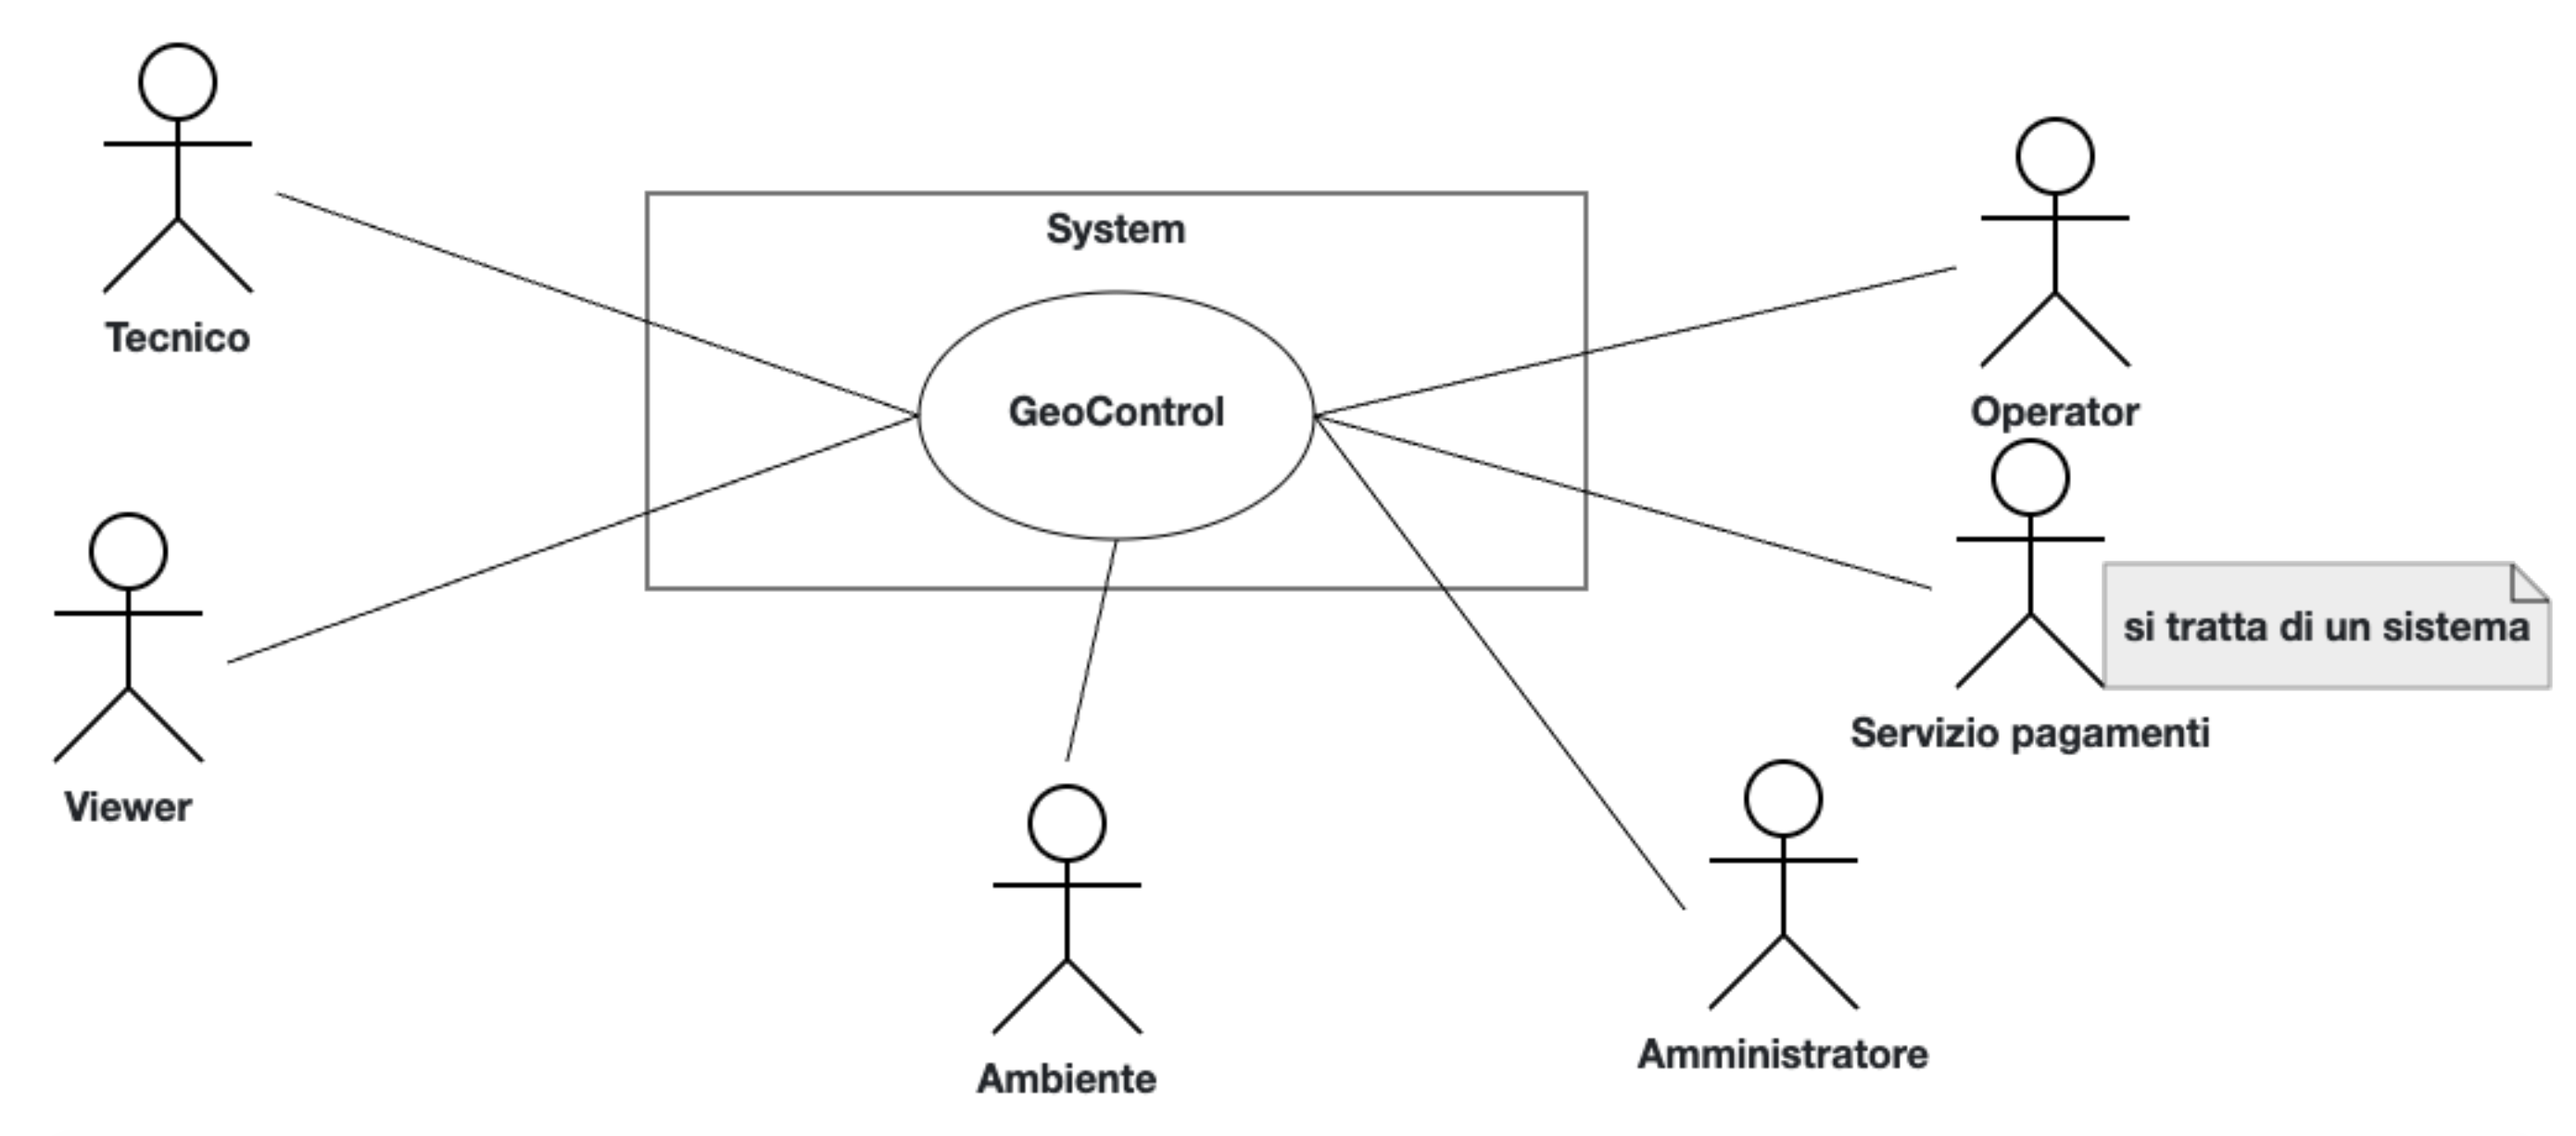
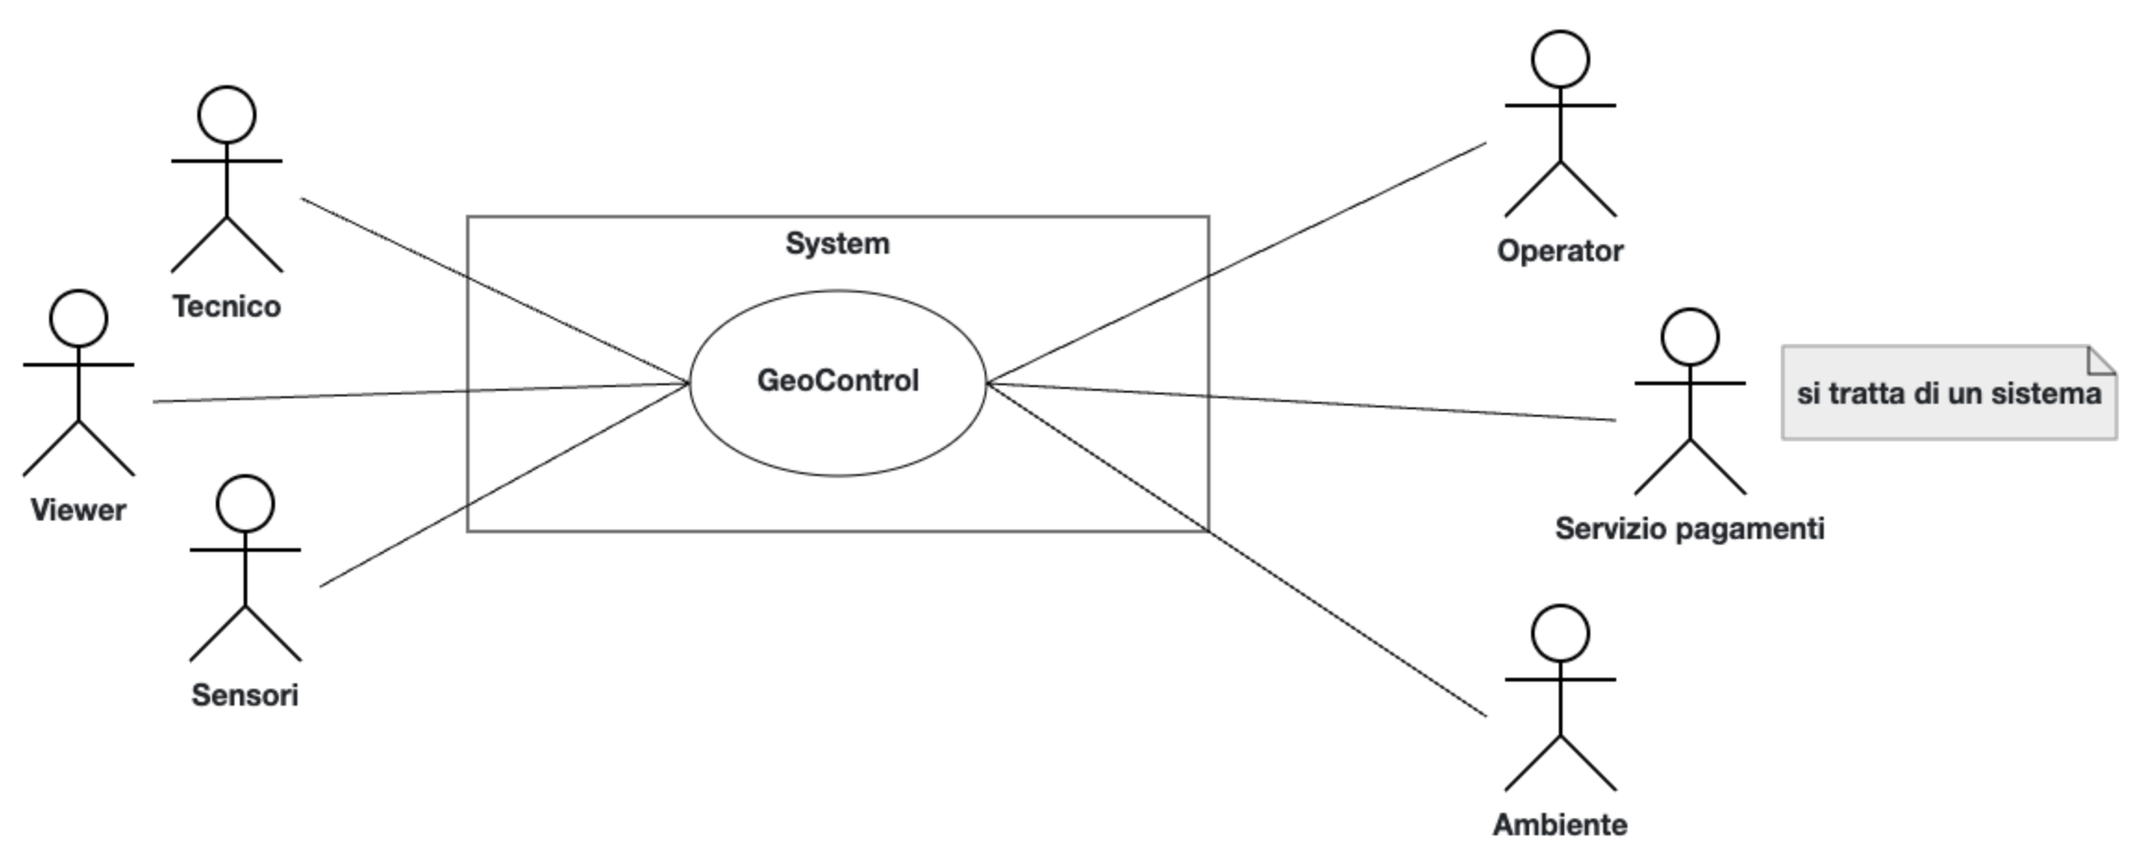
[req]: Fix Context-Diagram, Update Interfacce e Update requisiti non funzionali

diff --git a/doc/Requirements.md b/doc/Requirements.md
@@ -101,6 +101,7 @@ Perciò le caratteristiche principali del software, che costituiscono un valore,
 | Admin | GUI | PC |
 | Tecnico | GUI | PC |
 | Ambiente |  Temperatura e illuminazione e varie | Modulo di misurazione del sensore |
+| Sensori | Variabili Fisiche e Ambientali | Connessione Internet |
 
 
 # Stories and personas
@@ -182,25 +183,20 @@ Perciò le caratteristiche principali del software, che costituiscono un valore,
 
 
 ## Non Functional Requirements
-
 |   ID    | Type (efficiency, reliability, ..) | Description | Refers to |
 | :-----: | :--------------------------------: | :---------: | :-------: |
 |  NFR1   |      Efficienza                    | Le misurazioni devono essere realizzate ogni 10 minuti | FR3.1.2 |
 |  NFR2   |      Privacy                       | I dati devono essere trattati in accordo con le normative del GDPR | FR2 |
 |  NFR3   |      Dominio                       | Il timestamp delle misurazioni devono essere convertite secondo il formato ISO8601 | FR3.1.1 |
 |  NFR4   |      Affidabilità                  | Non più di 6 misurazioni all'anno, per sensore, devono essere perse | FR3 |
-|  NFR3   |      Sicurezza                     | Il sistema deve impedire agli utenti di eseguire operazioni per le quali non sono autorizzati e deve impedire accessi malevoli| FR1, FR2 |
-|  NFR3   |      Dominio                       | Il timestamp delle misurazioni devono essere convertite secondo il formato ISO8601 | FR3.1.1 |
-|  NFR4 |       Usabilità                    |     /   | Tutti |
-|  NFR4.1 |       Usabilità                    |    L'utente di tipo Viewer non deve aver bisogno di training per utilizzare il software    |  |
-|  NFR4.1 |       Usabilità                    |    Gli utenti di tipo Operator e Admin devono aver bisogno di un training di al massimo 2 ore    |  |
-| NFR5 |  Efficienza |  Le operazione CRUD sui dati (misurazione e utenze) devono completarsi in un tempo < 0.3s  | FR2, FR3 |
-| NFR6 |  Efficienza | Le misurazioni effettuate dai sensori devono presentare un'accuratezza di almeno 97% | FR3.1 |
+|  NFR5  |      Sicurezza                     | Il sistema deve impedire agli utenti di eseguire operazioni per le quali non sono autorizzati e deve impedire accessi malevoli| FR1, FR2 |
+|  NFR5   |      Dominio                       | Il timestamp delle misurazioni devono essere convertite secondo il formato ISO8601 | FR3.1.1 |
+|  NFR6 |       Usabilità                    |     /   | Tutti |
+|  NFR6.1 |       Usabilità                    |    L'utente di tipo Viewer non deve aver bisogno di training per utilizzare il software    |  |
+|  NFR6.2 |       Usabilità                    |    Gli utenti di tipo Operator e Amministratore devono aver bisogno di un training di al massimo 2 ore    |  |
 | NFR7 | Portabilità | Il software dev'essere accessibile su diversi sistemi operativi <br/> • Windows <br/> •Linux<br/> • MacOS<br/> | Tutti |
 | NFR8 | Efficienza |  Ogni utente deve individuare non più di 5 bug all'anno | Tutti |
-| NFR9 | Dominio | Le misurazioni devono essere espresse utilizzando le unità di misura previste dal SISTEMA INTERNAZIONALE DELLE UNITA' DI MISURA |
-
-
+| NFR9 | Dominio | Le misurazioni devono essere espresse utilizzando le unità di misura previste dal SISTEMA INTERNAZIONALE DELLE UNITA' DI MISURA | Tutti |
 
 
 
